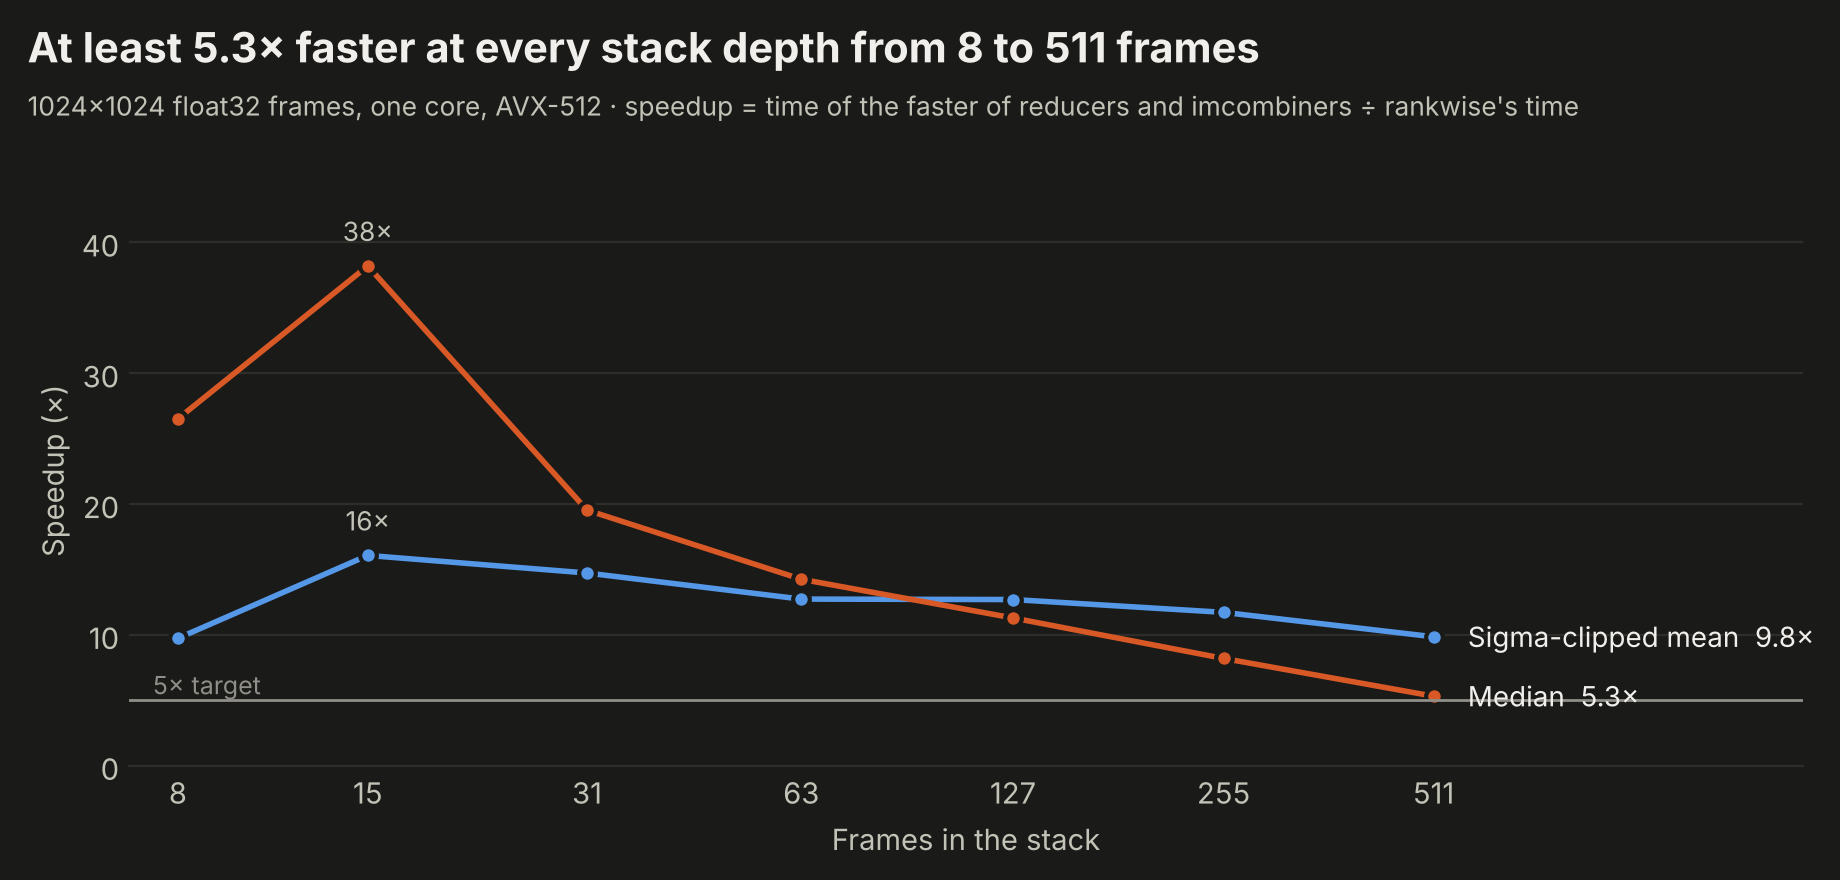
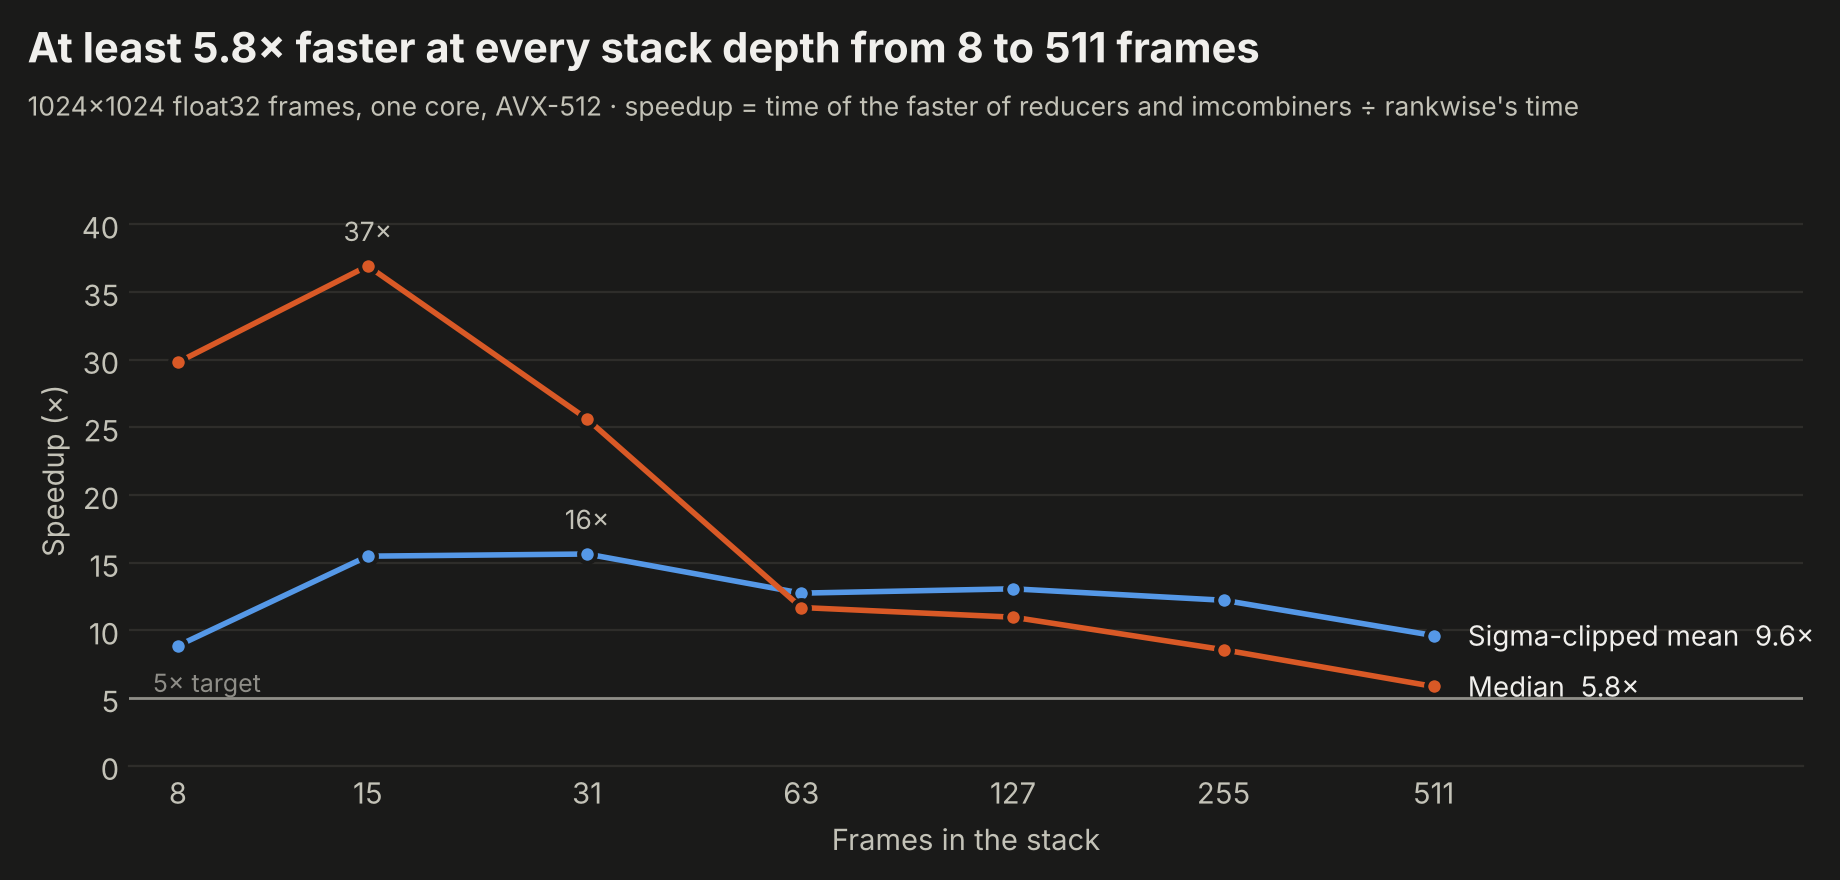
Charts on the final build: stride before/after, sweep, astro, Landsat figure
- New bench_stride chart: time on 2^k strides relative to padded frames,
  direct reads (previous build) against skewed reads, median and sigma
  clip, 8-63 frames.
- Sweep re-measured in interleaved rounds: at least 5.8x the faster of
  reducers and imcombiners at every depth from 8 to 511 frames.
- Astro chart from the final astro run; Landsat figure with larger labels.

Claude-Session: https://claude.ai/code/session_01GD7tWbcWCVBo7pz356thua

diff --git a/bench/figures.py b/bench/figures.py
@@ -181,49 +181,52 @@ def ensemble(theme):
 
 def stride(theme):
     """Power-of-two frame strides: time relative to padded frames, before and after skewed reads."""
+    from matplotlib.lines import Line2D
+
     t = THEMES[theme]
     after = json.loads((RES / "stride.json").read_text())["depth"]
     before = json.loads((RES / "stride_v0.1.json").read_text())["depth"]
     fig, axes = plt.subplots(1, 2, figsize=(9.2, 4.0), facecolor=t["surface"], sharey=True)
-    top = 0
+    top = max(max(r[f"pow2_{k}"] / r[f"padded_{k}"] for r in rows) for rows in (before, after)
+              for k in ("median", "sigclip"))
     for ax, (key, title) in zip(axes, (("median", "Median"), ("sigclip", "Sigma-clipped mean"))):
         style(ax, t)
         ax.yaxis.grid(True, color=t["grid"], linewidth=0.8)
         ax.xaxis.grid(False)
-        for rows, label, col, lw in ((before, "before (direct reads)", t["muted"], 1.6),
-                                     (after, "skewed reads", t["rw"][0], 2.2)):
-            ns = [r["n"] for r in rows]
-            rat = [r[f"pow2_{key}"] / r[f"padded_{key}"] for r in rows]
-            top = max(top, max(rat))
-            ax.plot(ns, rat, color=col, linewidth=lw, marker="o", markersize=5.5, markeredgecolor=t["surface"],
-                    markeredgewidth=1.3, label=label)
-            i = ns.index(31)
-            ax.annotate(f"{rat[i]:.2f}×", (31, rat[i]), textcoords="offset points", xytext=(0, 8), ha="center",
-                        fontsize=9.5, color=col if col != t["muted"] else t["ink2"])
+        ax.axvspan(47.5, 66, color=t["grid"], alpha=0.5, linewidth=0)
+        ax.text(56.5, top * 1.1, "staged", ha="center", va="top", fontsize=8.5, color=t["muted"])
         ax.axhline(1.0, color=t["ink2"], linewidth=1)
         ax.axhline(1.2, color=t["muted"], linewidth=1, linestyle=(0, (4, 3)))
-        ax.text(8, 1.2, "1.2× target", va="bottom", fontsize=8.5, color=t["muted"])
-        ax.axvspan(47.5, 66, color=t["grid"], alpha=0.5, linewidth=0)
-        ax.text(56, 1.0, "staged", ha="center", va="bottom", fontsize=8.5, color=t["muted"])
+        for rows, col, lw, dy, va in ((before, t["muted"], 1.6, 8, "bottom"), (after, t["rw"][0], 2.2, -9, "top")):
+            ns = [r["n"] for r in rows]
+            rat = [r[f"pow2_{key}"] / r[f"padded_{key}"] for r in rows]
+            ax.plot(ns, rat, color=col, linewidth=lw, marker="o", markersize=5.5, markeredgecolor=t["surface"],
+                    markeredgewidth=1.3)
+            i = ns.index(31)
+            ax.annotate(f"{rat[i]:.2f}×", (31, rat[i]), textcoords="offset points", xytext=(0, dy), ha="center",
+                        va=va, fontsize=9.5, color=t["ink2"] if col == t["muted"] else col,
+                        bbox=dict(boxstyle="square,pad=0.15", fc=t["surface"], ec="none"))
         ax.set_xticks([8, 16, 24, 31, 40, 47, 63])
         ax.set_xlim(5, 66)
         ax.set_xlabel("Frames of 1024×1024", color=t["ink2"])
         ax.set_title(title, loc="left", fontsize=11.5, color=t["ink"], fontweight="semibold")
     axes[0].set_ylabel("2^k stride ÷ padded frames", color=t["ink2"])
     axes[0].set_ylim(0.8, top * 1.12)
-    leg = axes[1].legend(frameon=False, loc="upper left", fontsize=9.5)
+    handles = [Line2D([], [], color=t["muted"], linewidth=1.6, marker="o", markersize=5, label="before (direct reads)"),
+               Line2D([], [], color=t["rw"][0], linewidth=2.2, marker="o", markersize=5, label="skewed reads"),
+               Line2D([], [], color=t["muted"], linewidth=1, linestyle=(0, (4, 3)), label="1.2× target")]
+    leg = axes[1].legend(handles=handles, frameon=False, loc="upper left", fontsize=9.5)
     for txt in leg.get_texts():
         txt.set_color(t["ink"])
     b31 = next(r for r in before if r["n"] == 31)
     a31 = next(r for r in after if r["n"] == 31)
     headline(fig, f"Power-of-two frame strides: {b31['pow2_median'] / b31['padded_median']:.2f}× → "
              f"{a31['pow2_median'] / a31['padded_median']:.2f}× the time of padded frames at 31 frames",
-             "NumPy's 2 MiB pages put every 2^k-strided frame in one cache set; skewed reads stagger groups of 8 frames "
-             "by a cache line · AVX-512, one core", t, top=0.975)
+             "NumPy's 2 MiB pages put 2^k-strided frames in one cache set; skewed reads stagger groups of 8 · "
+             "AVX-512, one core", t, top=0.975)
     fig.subplots_adjust(left=0.08, right=0.98, top=0.76, bottom=0.14, wspace=0.08)
     fig.savefig(IMG / f"bench_stride_{theme}.png", dpi=200, facecolor=t["surface"])
     plt.close(fig)
-
 
 if __name__ == "__main__":
     for th in THEMES:

diff --git a/bench/report.py b/bench/report.py
@@ -154,6 +154,8 @@ def main():
                 "2 MiB pages keep that conflict in L2. rankwise reads 8–47 such frames skewed and 48 or more through "
                 "its tile ([design](design.md#memory-layout-deep-stacks-and-the-power-of-two-stride)). "
                 "rankwise AVX-512, ns per pixel, best of four interleaved rounds.", "",
+                picture("bench_stride", "Time on power-of-two strides relative to padded frames, before and after "
+                        "skewed reads"), "",
                 "31 frames:", "",
                 "| Frame | Stride | Read path | Median | Sigma clip |", "|---|---|---|---|---|"]
         for r in st["rows"]:

diff --git a/docs/benchmarks.md b/docs/benchmarks.md
@@ -18,23 +18,23 @@ Every number here comes from the scripts in [`bench/`](../bench) and the JSON th
 
 | Tool | Operation | Seconds | ns / pixel | vs rankwise AVX-512 | Check |
 |---|---|---|---|---|---|
-| rankwise · AVX-512 · f32 bounds | sigma-clipped mean | 0.227 | 54.1 | 1.0× | astropy kept counts identical on 100% of pixels |
-| rankwise · AVX-512 | sigma-clipped mean | 0.243 | 57.9 | 1.1× | astropy kept counts identical on 100% of pixels |
-| rankwise · AVX2 | sigma-clipped mean | 0.333 | 79.3 | 1.5× | astropy kept counts identical on 100% of pixels |
-| rankwise · scalar | sigma-clipped mean | 0.72 | 171.6 | 3.2× | astropy kept counts identical on 100% of pixels |
-| reducers 0.4 | sigma-clipped mean | 3.5 | 833.4 | 15.4× | mean differs from astropy's by up to 1.9% |
-| imcombiners 0.1 | sigma-clipped mean | 4.01 | 955.5 | 17.7× | mean differs from astropy's by up to 1.9% |
-| astropy 8.0 sigma_clip | sigma-clipped mean | 4.82 | 1148.4 | 21.2× | mean differs from astropy's by up to 0% |
-| ccdproc 2.5 Combiner (1 pass) | sigma-clipped mean | 9.54 | 2274.4 | 42.1× | mean differs from astropy's by up to 49% |
-| rankwise · AVX-512 | median | 0.0751 | 17.9 | 1.0× | identical to np.median |
-| rankwise · AVX2 | median | 0.109 | 26.0 | 1.5× | identical to np.median |
-| rankwise · scalar | median | 0.295 | 70.4 | 3.9× | identical to np.median |
-| reducers 0.4 | median | 1.55 | 369.5 | 20.6× | identical to np.median |
-| imcombiners 0.1 | median | 1.63 | 389.2 | 21.7× | identical to np.median |
-| Bottleneck 1.6 | median | 2.21 | 527.9 | 29.5× | identical to np.median |
-| NumPy 2.5 median | median | 2.98 | 710.5 | 39.7× | identical to np.median |
-| ccdproc 2.5 Combiner | median | 8.2 | 1954.8 | 109.2× | identical to np.median |
-| numbagg 0.9 (nanmedian) | median | 12.6 | 3010.2 | 168.2× | identical to np.median |
+| rankwise · AVX-512 · f32 bounds | sigma-clipped mean | 0.229 | 54.5 | 1.0× | astropy kept counts identical on 100% of pixels |
+| rankwise · AVX-512 | sigma-clipped mean | 0.245 | 58.4 | 1.1× | astropy kept counts identical on 100% of pixels |
+| rankwise · AVX2 | sigma-clipped mean | 0.358 | 85.3 | 1.6× | astropy kept counts identical on 100% of pixels |
+| rankwise · scalar | sigma-clipped mean | 0.743 | 177.2 | 3.2× | astropy kept counts identical on 100% of pixels |
+| reducers 0.4 | sigma-clipped mean | 3.5 | 833.4 | 15.3× | mean differs from astropy's by up to 1.9% |
+| imcombiners 0.1 | sigma-clipped mean | 4.01 | 955.5 | 17.5× | mean differs from astropy's by up to 1.9% |
+| astropy 8.0 sigma_clip | sigma-clipped mean | 4.82 | 1148.4 | 21.1× | mean differs from astropy's by up to 0% |
+| ccdproc 2.5 Combiner (1 pass) | sigma-clipped mean | 9.54 | 2274.4 | 41.7× | mean differs from astropy's by up to 49% |
+| rankwise · AVX-512 | median | 0.0761 | 18.1 | 1.0× | identical to np.median |
+| rankwise · AVX2 | median | 0.108 | 25.8 | 1.4× | identical to np.median |
+| rankwise · scalar | median | 0.294 | 70.1 | 3.9× | identical to np.median |
+| reducers 0.4 | median | 1.55 | 369.5 | 20.4× | identical to np.median |
+| imcombiners 0.1 | median | 1.63 | 389.2 | 21.5× | identical to np.median |
+| Bottleneck 1.6 | median | 2.21 | 527.9 | 29.1× | identical to np.median |
+| NumPy 2.5 median | median | 2.98 | 710.5 | 39.2× | identical to np.median |
+| ccdproc 2.5 Combiner | median | 8.2 | 1954.8 | 107.8× | identical to np.median |
+| numbagg 0.9 (nanmedian) | median | 12.6 | 3010.2 | 165.9× | identical to np.median |
 | Siril 1.2.1 (reads FITS) | median | 2.72 | 647.4 | — | own I/O |
 | Siril 1.2.1 (reads FITS) | sigma-clipped mean | 3.44 | 821.0 | — | own I/O |
 
@@ -46,13 +46,13 @@ reducers and imcombiners clip differently from astropy (they do not re-apply the
 
 | Frames | rankwise median | rankwise σ-clip | reducers median | imcombiners median | reducers σ-clip | imcombiners σ-clip | NumPy median | median speedup | σ-clip speedup |
 |---|---|---|---|---|---|---|---|---|---|
-| 8 | 2.9 | 19.8 | 92 | 83 | 187 | 187 | 139 | 28.9× | 9.4× |
-| 15 | 5.9 | 28.7 | 205 | 198 | 438 | 471 | 287 | 33.3× | 15.2× |
-| 31 | 16.4 | 55.9 | 380 | 357 | 839 | 945 | 753 | 21.8× | 15.0× |
-| 63 | 46.4 | 147.0 | 638 | 674 | 1660 | 1905 | 1724 | 13.7× | 11.3× |
-| 127 | 179.9 | 312.8 | 1195 | 1198 | 3714 | 3768 | 3392 | 6.6× | 11.9× |
-| 255 | 379.5 | 740.6 | 2273 | 2314 | 8055 | 8626 | 6682 | 6.0× | 10.9× |
-| 511 | 776.2 | 1702.8 | 4454 | 5001 | 17453 | 18738 | 13882 | 5.7× | 10.2× |
+| 8 | 2.8 | 21.1 | 92 | 83 | 187 | 187 | 139 | 29.8× | 8.9× |
+| 15 | 5.4 | 28.3 | 205 | 198 | 438 | 471 | 287 | 36.9× | 15.5× |
+| 31 | 13.9 | 53.7 | 380 | 357 | 839 | 945 | 753 | 25.6× | 15.6× |
+| 63 | 54.6 | 130.3 | 638 | 674 | 1660 | 1905 | 1724 | 11.7× | 12.7× |
+| 127 | 109.0 | 284.4 | 1195 | 1198 | 3714 | 3768 | 3392 | 11.0× | 13.1× |
+| 255 | 265.6 | 659.4 | 2273 | 2314 | 8055 | 8626 | 6682 | 8.6× | 12.2× |
+| 511 | 761.8 | 1815.9 | 4454 | 5001 | 17453 | 18738 | 13882 | 5.8× | 9.6× |
 
 ns per output pixel, one core, AVX-512. Speedup is against the faster of reducers and imcombiners.
 
@@ -121,6 +121,8 @@ Reading takes 0.11 s, longer than rankwise's median itself, so end to end rankwi
 ## Power-of-two strides
 
 A contiguous stack of 2^k-byte frames puts every frame's current cache line in the same set; NumPy's 2 MiB pages keep that conflict in L2. rankwise reads 8–47 such frames skewed and 48 or more through its tile ([design](design.md#memory-layout-deep-stacks-and-the-power-of-two-stride)). rankwise AVX-512, ns per pixel, best of four interleaved rounds.
+
+<picture><source media="(prefers-color-scheme: dark)" srcset="img/bench_stride_dark.png"><img alt="Time on power-of-two strides relative to padded frames, before and after skewed reads" src="img/bench_stride_light.png"></picture>
 
 31 frames:
 
